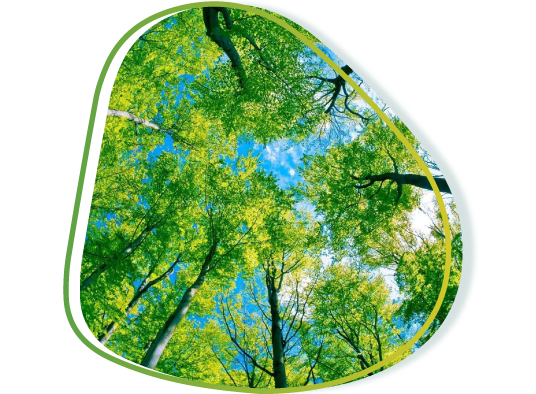
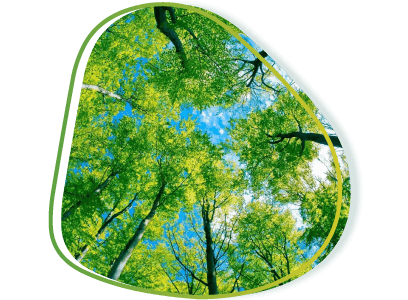
change some nature based assets images and some fix navbar and home page tabs padding change and carbon credits page card change padding

Changed region(s): [[0.1176, 0.0, 0.8824, 1.0], [0.3235, 0.6, 0.3529, 0.63]]

diff --git a/src/components/CarbonCredits/BenefitsforFarmers.jsx b/src/components/CarbonCredits/BenefitsforFarmers.jsx
@@ -1,0 +1,123 @@
+import React from "react";
+import EffectsofDeforestation from "../../../src/images/challenges-effectsofdeforestation.png";
+
+const BenefitsforFarmers = () => {
+  return (
+    <div className="relative ">
+      <div>
+        <div className="px-[30px] md:px-[60px] lg:px-[80px] xl:px-[100px] py-[20px] md:py-[50px]">
+          <div className="grid grid-cols-1 lg:grid-cols-2 lg:gap-x-[50px]">
+            <div className="pb-[20px] flex flex-col justify-center items-center h-full">
+              <div className=" container flex  items-center">
+                <img
+                  className=" mx-auto "
+                  src={EffectsofDeforestation}
+                  alt="EffectsofDeforestation"
+                ></img>
+              </div>
+            </div>
+            <div className="container text-white  flex flex-col justify-center  h-full">
+              <h2 className="text-left text-4xl  font-montserrat  font-bold text-[#316D69] pb-6">
+                Benefits for
+                <span className="text-[#3c3c3c]"> Farmers</span>
+              </h2>
+
+              <div className="mt-8 font-poppins text-lg text-black">
+                <ul className=" flex flex-col gap-2">
+                  <div className="	">
+                    <li className="flex gap-3 align-middle">
+                      <div className="px-4">
+                        <span className="flex items-center justify-center w-8 h-8 mx-auto text-lg font-bold text-[#3c3c3c] rounded-full font-heading border-4 border-[#316D69]">
+                          1
+                        </span>
+                      </div>
+                      <h6 className="uppercase text-lg text-[#316D69] font-bold	font-montserrat">
+                        Higher quality soil:
+                      </h6>
+                    </li>
+                    <li className="font-poppins text-lg pl-14 ">
+                      <p>
+                        Improved soil quality results in more productive crops,
+                        enhancing overall food production, and agricultural
+                        sustainability.
+                      </p>
+                    </li>
+                    <br />
+                  </div>
+                </ul>
+                <ul className=" flex flex-col gap-2">
+                  <div className="	">
+                    <li className="flex gap-3 align-middle">
+                      <div className="px-4">
+                        <span className="flex items-center justify-center w-8 h-8 mx-auto text-lg font-bold text-[#3c3c3c] rounded-full font-heading border-4 border-[#316D69]">
+                          2
+                        </span>
+                      </div>
+                      <h6 className="uppercase text-lg text-[#316D69] font-bold	font-montserrat">
+                        Lower input costs:
+                      </h6>
+                    </li>
+                    <li className="font-poppins text-lg pl-14 ">
+                      <p>
+                        Effective farming practices can reduce the expenses
+                        linked with pesticides, water, and fertilizers, leading
+                        to saving costs.
+                      </p>
+                    </li>
+                    <br />
+                  </div>
+                </ul>
+                <ul className=" flex flex-col gap-2">
+                  <div className="	">
+                    <li className="flex gap-3 align-middle">
+                      <div className="px-4">
+                        <span className="flex items-center justify-center w-8 h-8 mx-auto text-lg font-bold text-[#3c3c3c] rounded-full font-heading border-4 border-[#316D69]">
+                          3
+                        </span>
+                      </div>
+                      <h6 className="uppercase text-lg text-[#316D69] font-bold	font-montserrat">
+                        Higher profits in the long term:
+                      </h6>
+                    </li>
+                    <li className="font-poppins text-lg pl-14 ">
+                      <p>
+                        Investing in sustainable agriculture can provide greater
+                        profits over time due to reduced resource depletion, and
+                        increased productivity.
+                      </p>
+                    </li>
+                    <br />
+                  </div>
+                </ul>
+                <ul className=" flex flex-col gap-2">
+                  <div className="	">
+                    <li className="flex gap-3 align-middle">
+                      <div className="px-4">
+                        <span className="flex items-center justify-center w-8 h-8 mx-auto text-lg font-bold text-[#3c3c3c] rounded-full font-heading border-4 border-[#316D69]">
+                          4
+                        </span>
+                      </div>
+                      <h6 className="uppercase text-lg text-[#316D69] font-bold	font-montserrat">
+                        Access to strong community and knowledge:
+                      </h6>
+                    </li>
+                    <li className="font-poppins text-lg pl-14 ">
+                      <p>
+                        Accessing valuable agricultural knowledge and engaging
+                        with a supportive farming community can lead to informed
+                        decisions.
+                      </p>
+                    </li>
+                    <br />
+                  </div>
+                </ul>
+              </div>
+            </div>
+          </div>
+        </div>
+      </div>
+    </div>
+  );
+};
+
+export default BenefitsforFarmers;

diff --git a/src/components/CarbonCredits/WhyPartnerWithGep.jsx b/src/components/CarbonCredits/WhyPartnerWithGep.jsx
@@ -1,53 +1,55 @@
-import React from 'react'
+import React from "react";
 import NatureBasedAssetsimg from "../../../src/images/Nature-Based-Assets-1.png";
-
 
 const WhyPartnerWithGep = () => {
   return (
     <div className=" flex flex-row mt-[50px] px-[30px] md:px-[60px] lg:px-[80px] xl:px-[100px] sm:mt-[50px] lg:mt-[100px] pb-8">
-    <div className="grid grid-cols-1 md:gris-cols-1 lg:grid-cols-2 xl:grid-cols-2 ">
-      <div className="flex flex-col mr-0 md:mr-0 lg:mr-[50px] xl:mr-[50px]">
-        <h2 className="text-2xl font-bold tracking-normal leading-7 text-[#3c3c3c] font-montserrat dark:text-white lg:text-4xl">
-          <span className="text-[#316D69] block">Why Partner With</span> GEP?
-        </h2>
-        <p className="text-lg font-normal mt-4 font-poppins leading-7 text-[#3c3c3c]">
-        Integrating carbon solutions into your business model presents a <span className='font-extrabold'>complimentary revenue system</span> that allows you to have a positive impact on the planet while highlighting key advantages. Firstly, it adds<span className='font-extrabold'> additional value to your clients,</span> helping them gain a competitive edge by fulfilling their environmental responsibilities, particularly in sectors where few companies offer carbon opportunities to farmers, positioning you as a pioneer. Secondly, this strategic move can help <span className='font-extrabold'>grow your market share</span> by attracting eco-conscious clients who value sustainability. By aligning carbon solutions with your existing offerings, you open up new revenue streams for sustainable growth.
-        </p>
-        <div className='flex flex-wrap justify-between'>
-        <div className='flex flex-col mt-6'>
-        <h6 className="uppercase text-lg text-[#316D69] font-bold	font-montserrat">
-        What Do We Offer? 
-          </h6>
-        <ol className="text-lg font-poppins list-decimal ml-10 mt-2  ">
-          <li className="mt-2">Carbon offset projects</li>
-          <li className="mt-2">Expertise and support </li>
-          <li className="mt-2">Competitive edge </li>
-        </ol>
+      <div className="grid grid-cols-1 md:gris-cols-1 lg:grid-cols-2 xl:grid-cols-2 ">
+        <div className="flex flex-col mr-0 md:mr-0 lg:mr-[50px] xl:mr-[50px]">
+          <h2 className="text-2xl font-bold tracking-normal leading-7 text-[#3c3c3c] font-montserrat dark:text-white lg:text-4xl">
+            <span className="text-[#316D69]">Why Partner With</span> GEP?
+          </h2>
+          <p className="text-lg font-normal mt-8 font-poppins leading-7 text-[#3c3c3c]">
+            Integrating carbon solutions into your business model presents a{" "}
+            <span className="font-extrabold">complimentary revenue system</span>{" "}
+            that allows you to have a positive impact on the planet while
+            highlighting key advantages. Firstly, it adds
+            <span className="font-extrabold">
+              {" "}
+              additional value to your clients,
+            </span>{" "}
+            helping them gain a competitive edge by fulfilling their
+            environmental responsibilities, particularly in sectors where few
+            companies offer carbon opportunities to farmers, positioning you as
+            a pioneer. Secondly, this strategic move can help{" "}
+            <span className="font-extrabold">grow your market share</span> by
+            attracting eco-conscious clients who value sustainability. By
+            aligning carbon solutions with your existing offerings, you open up
+            new revenue streams for sustainable growth.
+          </p>
+          <div className="flex flex-wrap justify-between">
+            <div className="flex flex-col mt-6">
+              <h6 className="uppercase text-lg text-[#316D69] font-bold	font-montserrat">
+                What Do We Offer?
+              </h6>
+              <ol className="text-lg font-poppins list-decimal ml-10 mt-2  ">
+                <li className="mt-2">Carbon offset projects</li>
+                <li className="mt-2">Expertise and support </li>
+                <li className="mt-2">Competitive edge </li>
+              </ol>
+            </div>
+          </div>
         </div>
-        <div className='flex flex-col mt-6'>
-        <h6 className="uppercase text-lg text-[#316D69] font-bold	font-montserrat">
-        Benefits for Farmers 
-          </h6>
-        <ol className="text-lg font-poppins list-decimal ml-10 mt-2  ">
-          <li className="mt-2">Higher quality soil </li>
-          <li className="mt-2">Lower input costs </li>
-          <li className="mt-2">Higher profits in the long term  </li>
-          {/* <li className="mt-2">Access to strong community and knowledge   </li> */}
-        </ol>
+        <div className=" items-center gap-8 ">
+          <img
+            src={NatureBasedAssetsimg}
+            className="w-full h-full rounded-lg"
+            alt="Tree"
+          />
         </div>
-        </div>
-      
-      </div>
-      <div className=" items-center gap-8 ">
-        <img
-          src={NatureBasedAssetsimg}
-          className="w-full h-full rounded-lg"
-          alt="Tree"
-        />
       </div>
     </div>
-  </div>
-  )
-}
+  );
+};
 
-export default WhyPartnerWithGep
+export default WhyPartnerWithGep;

diff --git a/src/components/CarbonCredits/CriteriaforSelecting.jsx b/src/components/CarbonCredits/CriteriaforSelecting.jsx
@@ -1,10 +1,8 @@
 import React from "react";
-import { FaBeer } from 'react-icons/fa';
-
+import { FaBeer } from "react-icons/fa";
 
 const CriteriaforSelecting = () => {
   const CriteriaData = [
-    
     {
       id: 1,
       icon: FaBeer,
@@ -43,24 +41,28 @@ const CriteriaforSelecting = () => {
     },
   ];
   return (
-    <div className="container mx-auto">
+    <div className="px-[30px] md:px-[60px] lg:px-[80px] xl:px-[100px] mx-auto">
       <h2 className="text-center text-4xl  font-montserrat  font-bold text-[#316D69] pb-6">
         Criteria for Selecting High-Standard Carbon Offset Project{" "}
       </h2>
       <div className="grid grid-cols-1 mt-10 md:grid-cols-2 lg:grid-cols-3 xl:grid-cols-3 gap-8">
-    
-          {CriteriaData.map((data) => (
-            <div className="inner-card border-2 border-[#316D69] rounded-lg shadow-2xl shadow-[#316D69] pl-6 pr-6 pb-12" key={data.id}>
-              <div className="cards-data text-left mt-10 ">
-                <FaBeer className="h-16 w-16"/>
-                <h6 className="uppercase text-lg mt-6 text-[#316D69] font-bold	font-montserrat">{data.title}</h6>
-                <p className="text-[14px] md:text-[16px] mt-4 lg:text-[18px]  leading-[24px]   font-poppins text-lg ">{data.desc}</p>
-
-              </div>
+        {CriteriaData.map((data) => (
+          <div
+            className="inner-card border-2 border-[#316D69] rounded-lg shadow-2xl shadow-[#316D69] pl-6 pr-6 pb-12"
+            key={data.id}
+          >
+            <div className="cards-data text-left mt-10 ">
+              <FaBeer className="h-16 w-16" />
+              <h6 className="uppercase text-lg mt-6 text-[#316D69] font-bold	font-montserrat">
+                {data.title}
+              </h6>
+              <p className="text-[14px] md:text-[16px] mt-4 lg:text-[18px]  leading-[24px]   font-poppins text-lg ">
+                {data.desc}
+              </p>
             </div>
-          ))}
-        </div>
-      
+          </div>
+        ))}
+      </div>
     </div>
   );
 };

diff --git a/src/pages/CarbonCredits/CarbonCredits.jsx b/src/pages/CarbonCredits/CarbonCredits.jsx
@@ -4,15 +4,17 @@ import GEPCarbonProgram from "../../components/CarbonCredits/GEPCarbonProgram";
 import CriteriaforSelecting from "../../components/CarbonCredits/CriteriaforSelecting";
 import WhyPartnerWithGep from "../../components/CarbonCredits/WhyPartnerWithGep";
 import CarbonCreditsMission from "../../components/CarbonCredits/CarbonCreditsMission";
+import BenefitsforFarmers from "../../components/CarbonCredits/BenefitsforFarmers";
 
 const CarbonCredits = () => {
   return (
     <div>
       <CarbonCreditsBanner />
-      <GEPCarbonProgram/>
-      <CriteriaforSelecting/>
+      <GEPCarbonProgram />
+      <CriteriaforSelecting />
       <WhyPartnerWithGep />
-      <CarbonCreditsMission/>
+      <BenefitsforFarmers />
+      <CarbonCreditsMission />
     </div>
   );
 };

diff --git a/src/components/Navbar/Navbar.jsx b/src/components/Navbar/Navbar.jsx
@@ -333,7 +333,6 @@ const Navbar = () => {
                 Projects
               </NavLink>
             </li>
-
             <li>
               <NavLink
                 to="/news-and-media"
@@ -346,7 +345,8 @@ const Navbar = () => {
               >
                 News and Media
               </NavLink>
-            </li>      <li>
+            </li>{" "}
+            <li>
               <NavLink
                 to="/carbon-credits"
                 className={`block py-2 font-montserrat font-semibold  text-base pl-3 pr-4 sm:pr-0 ${
@@ -359,7 +359,6 @@ const Navbar = () => {
                 Carbon Credits
               </NavLink>
             </li>
-           
             <li>
               <NavLink
                 to="/contact"

diff --git a/src/components/NatureBasedAsset/NatureBasedAssets.jsx b/src/components/NatureBasedAsset/NatureBasedAssets.jsx
@@ -4,7 +4,7 @@ import NatureBasedAssetsimg from "../../../src/images/Nature-Based-Assets-1.png"
 const NatureBasedAssets = () => {
   return (
     <div className=" flex flex-row  px-[30px] md:px-[60px] lg:px-[80px] xl:px-[100px] sm:mt-[50px] lg:mt-[100px]">
-      <div className="grid grid-cols-1 md:gris-cols-1 lg:grid-cols-2 xl:grid-cols-2 ">
+      <div className="grid grid-cols-1 md:gris-cols-1 lg:grid-cols-2 xl:grid-cols-2 items-center gap-8">
         <div className="flex flex-col mr-0 md:mr-0 lg:mr-[50px] xl:mr-[50px]">
           <h2 className="text-2xl font-bold tracking-normal leading-7 text-black font-montserrat dark:text-white lg:text-3xl">
             <span className="text-[#316D69] block">Nature based Assets</span>

diff --git a/src/components/NatureBasedAsset/NatureBaseSolutionSecond.jsx b/src/components/NatureBasedAsset/NatureBaseSolutionSecond.jsx
@@ -9,11 +9,7 @@ const NatureBaseSolutionSecond = () => {
     <div className=" flex flex-row lg:items-center px-[30px] md:px-[60px] lg:px-[80px] xl:px-[100px] lg:mt-[100px] mt-[50px]">
       <div className="grid grid-cols-1 md:grid-cols-1 lg:grid-cols-2 xl:grid-cols-2">
         <div className="flex items-center  ">
-          <img
-            src={NatureBasedAssets2}
-            className="w-full h-full rounded-lg"
-            alt="Tree"
-          />
+          <img src={NatureBasedAssets2} className="h-[90%] w-full" alt="Tree" />
         </div>
         <div className="w-full ">
           {/* <h2 className="text-2xl font-bold tracking-normal leading-7 text-black font-montserrat dark:text-white lg:text-3xl">

diff --git a/src/components/Challanges/ChallangesMission.jsx b/src/components/Challanges/ChallangesMission.jsx
@@ -12,7 +12,7 @@ const ChallangesMission = () => {
     <div>
       <div className="relative mt-[50px]">
         <div style={divStyle1}>
-          <div className=" py-[50px] px-[30px] md:px-[60px] lg:px-[80px] xl:px-[100px]  text-center  bg-black bg-opacity-50">
+          <div className=" py-[50px]   text-center  bg-black bg-opacity-50">
             <h1 className="pb-[15px] md:pb-[30px] text-center text-white text-[24px] md:text-[28px] lg:text-[30px] xl:text-[33px] font-[900]">
               {" "}
               Mission 2050{" "}

diff --git a/src/App.js b/src/App.js
@@ -22,10 +22,12 @@ import Home from "./pages/Home/Home";
 import Footer from "./components/Footer/Footer";
 import ShortFooter from "./components/ShortFooter/ShortFooter";
 import CarbonCredits from "./pages/CarbonCredits/CarbonCredits";
+import ScrollToTop from "./components/ScrollForTop/ScrollForTop";
 
 const App = () => {
   return (
     <>
+      <ScrollToTop />
       <Navbar />
       <Routes>
         <Route path="/" element={<Home />} />{" "}

diff --git a/src/components/Home/TabsCustomAnimation.jsx b/src/components/Home/TabsCustomAnimation.jsx
@@ -78,7 +78,7 @@ const TabsCustomAnimation = () => {
 
   return (
     <div className="">
-      <div className="container mx-auto mt-10">
+      <div className="px-[30px] md:px-[60px] lg:px-[80px] xl:px-[100px] mx-auto mt-10">
         <h2 className="text-2xl md:text-3xl text-[#316D69] leading-7 tracking-normal font-montserrat font-bold mb-16 text-center">
           The Route to Carbon Neutrality
         </h2>

diff --git a/src/components/ScrollForTop/ScrollForTop.jsx b/src/components/ScrollForTop/ScrollForTop.jsx
@@ -1,0 +1,15 @@
+// ScrollToTop.js
+import { useEffect } from "react";
+import { useLocation } from "react-router-dom";
+
+const ScrollToTop = () => {
+  const { pathname } = useLocation();
+
+  useEffect(() => {
+    window.scrollTo(0, 0);
+  }, [pathname]);
+
+  return null;
+};
+
+export default ScrollToTop;
